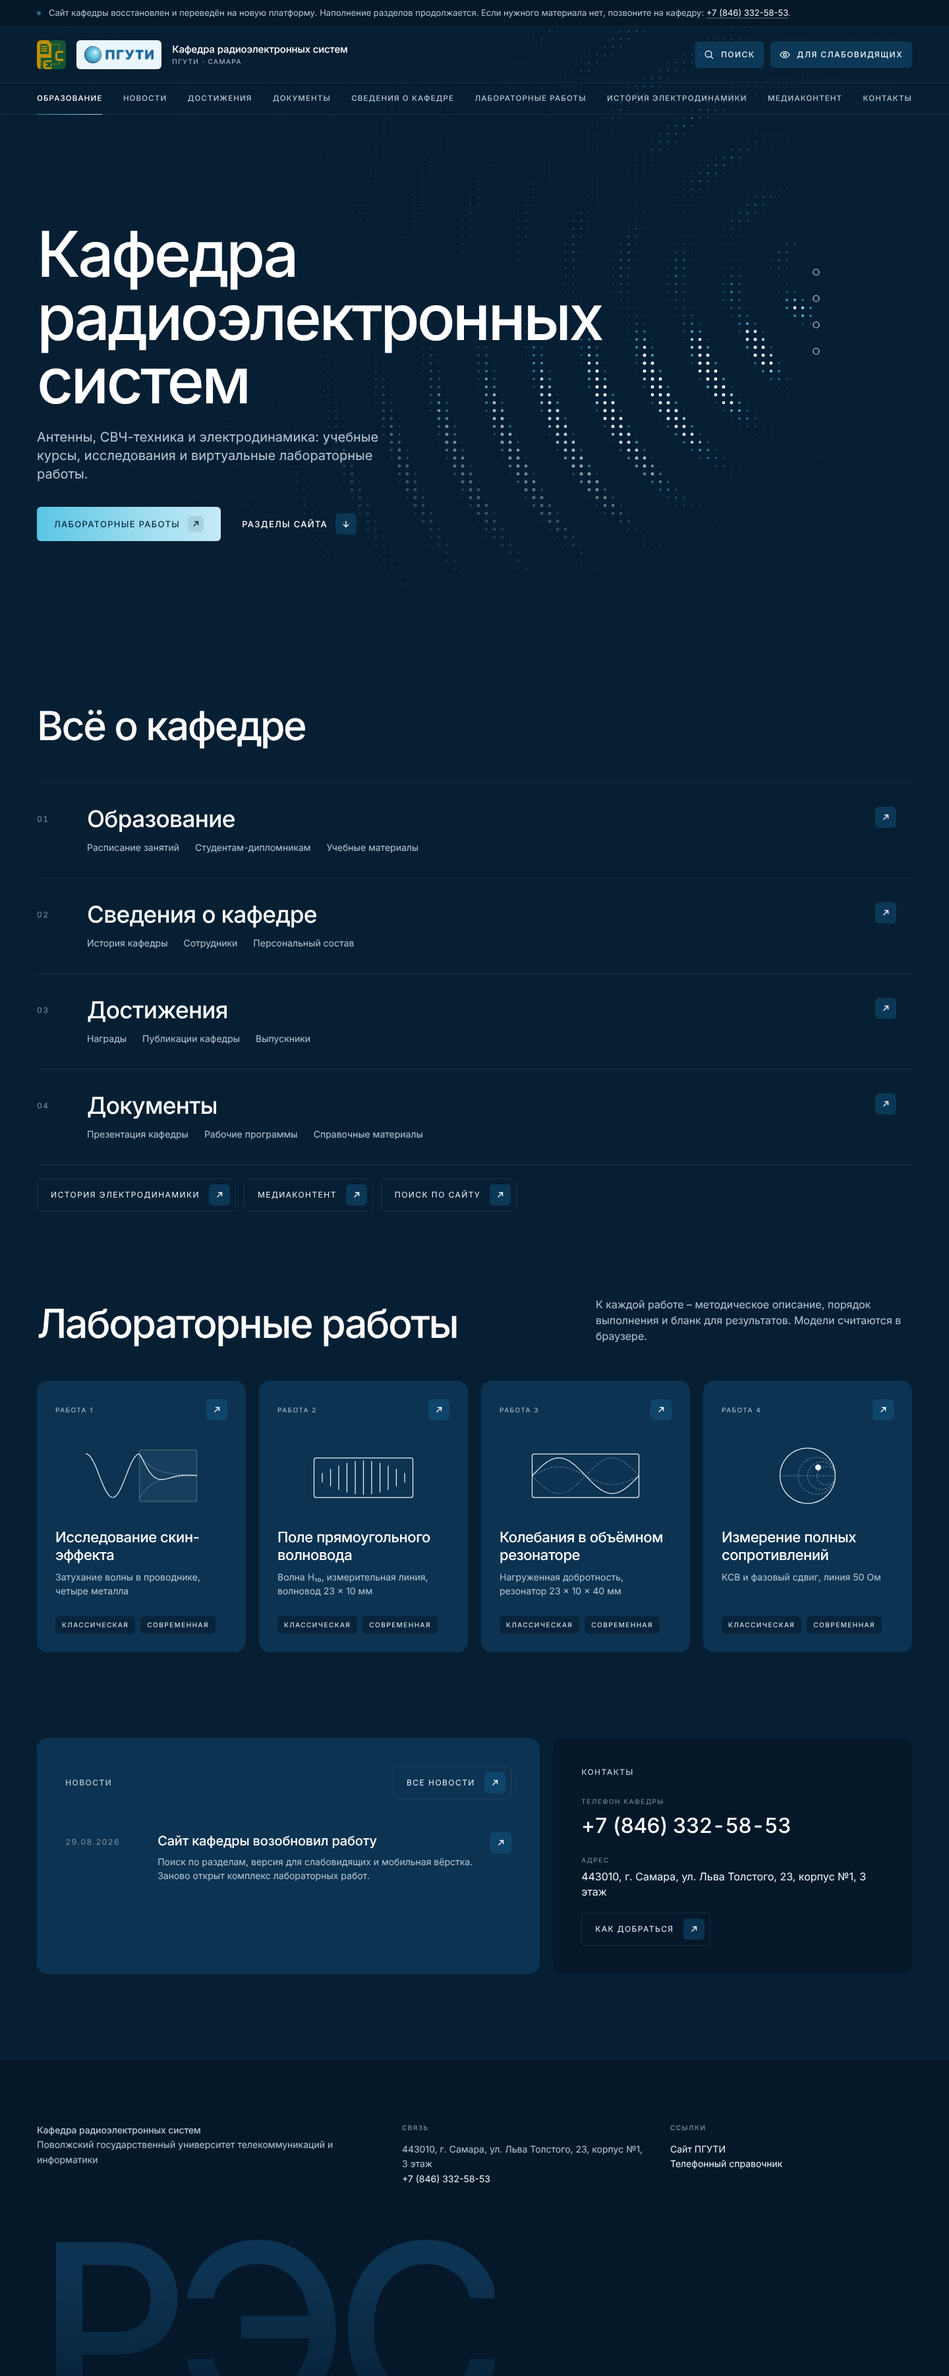
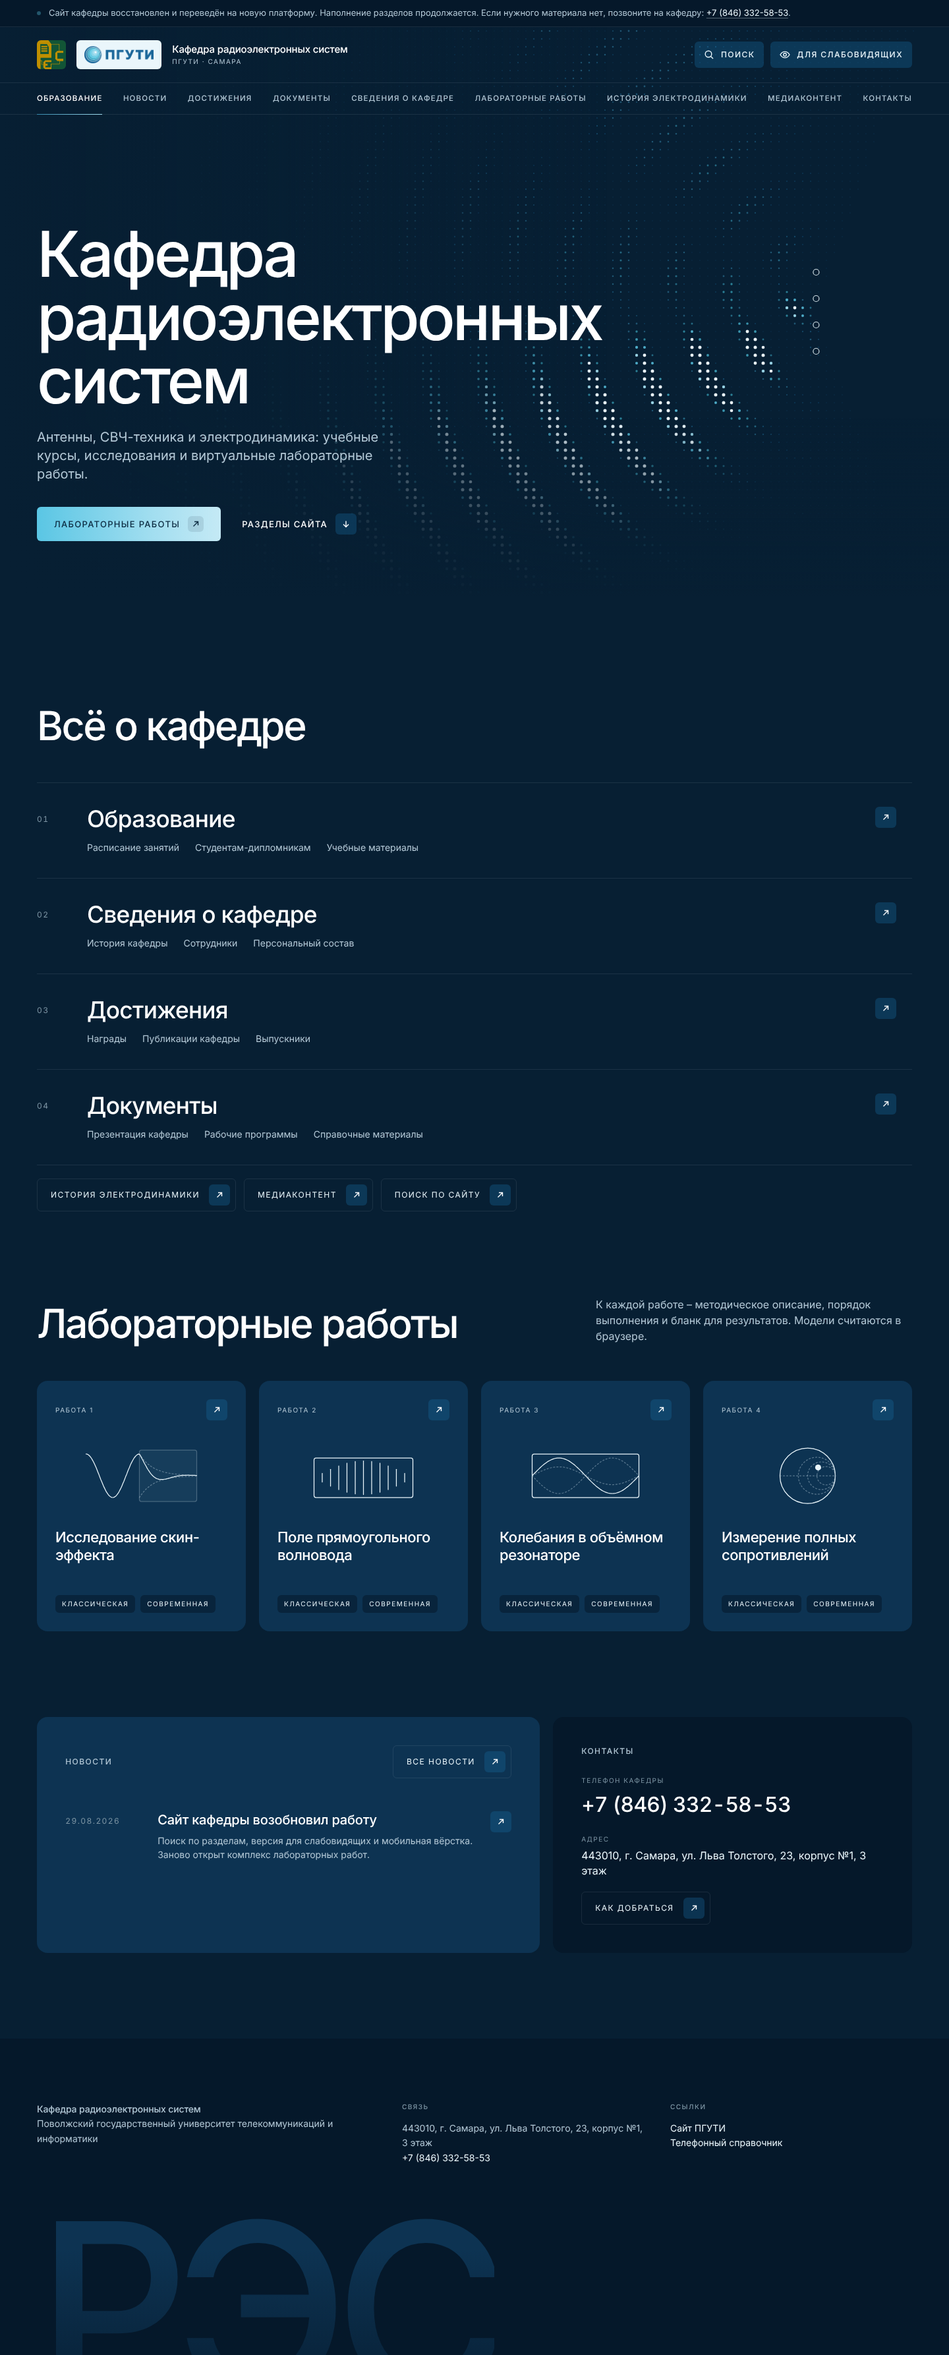
Макет главной: убраны описания под названиями лабораторных
Claude-Session: https://claude.ai/code/session_01Y5a5f6xMeDjfuauD7HAxLL

diff --git a/design/maket-glavnoj.clean.html b/design/maket-glavnoj.clean.html
@@ -187,7 +187,6 @@ p { margin: 0; }
 .lab__glyph .g-fill { fill: rgba(162, 222, 240, .06); stroke: rgba(234, 246, 251, .25); stroke-dasharray: none; }
 .lab__glyph .g-pt { fill: var(--mist); stroke: none; }
 .lab__title { font-size: 22px; line-height: 1.2; letter-spacing: -.02em; color: var(--white); font-weight: 500; }
-.lab__meta { margin-top: 10px; font-size: 14px; line-height: 1.5; color: var(--silver); }
 .lab__foot { margin-top: auto; padding-top: 28px; display: flex; gap: 8px; flex-wrap: wrap; }
 .tag { font-size: 10px; letter-spacing: .15em; text-transform: uppercase; color: var(--mist); padding: 6px 10px; border-radius: var(--r-sm); background: rgba(5, 24, 42, .55); }
 
@@ -407,28 +406,24 @@ p { margin: 0; }
         <span class="lab__top"><span class="lab__code">Работа 1</span><span class="arrow" aria-hidden="true"><svg viewBox="0 0 14 14" fill="none" stroke="currentColor" stroke-width="1.4"><path d="M3.5 10.5 10.5 3.5M5 3.5h5.5V9"/></svg></span></span>
         <span class="lab__glyph"><svg viewBox="0 0 120 64" aria-hidden="true"><rect x="58" y="6" width="58" height="52" rx="2" class="g-fill"/><polyline points="4.0,10.0 4.9,10.1 5.9,10.5 6.8,11.2 7.7,12.0 8.7,13.2 9.6,14.5 10.5,16.1 11.5,17.8 12.4,19.7 13.3,21.7 14.3,23.9 15.2,26.2 16.1,28.5 17.1,30.9 18.0,33.3 18.9,35.7 19.9,38.0 20.8,40.2 21.7,42.4 22.7,44.4 23.6,46.3 24.5,48.1 25.5,49.6 26.4,50.9 27.3,52.0 28.3,52.9 29.2,53.5 30.1,53.9 31.1,54.0 32.0,53.9 32.9,53.4 33.9,52.8 34.8,51.9 35.7,50.7 36.7,49.4 37.6,47.8 38.5,46.1 39.5,44.2 40.4,42.1 41.3,39.9 42.3,37.7 43.2,35.3 44.1,32.9 45.1,30.6 46.0,28.2 46.9,25.9 47.9,23.6 48.8,21.4 49.7,19.4 50.7,17.5 51.6,15.8 52.5,14.3 53.5,13.0 54.4,11.9 55.3,11.1 56.3,10.4 57.2,10.1 58.1,10.2 59.1,11.8 60.0,13.4 60.9,15.2 61.9,17.0 62.8,18.8 63.7,20.5 64.7,22.2 65.6,23.9 66.5,25.5 67.5,26.9 68.4,28.3 69.3,29.6 70.3,30.7 71.2,31.7 72.1,32.6 73.1,33.4 74.0,34.0 74.9,34.6 75.9,35.0 76.8,35.3 77.7,35.6 78.7,35.7 79.6,35.8 80.5,35.8 81.5,35.8 82.4,35.7 83.3,35.5 84.3,35.4 85.2,35.2 86.1,34.9 87.1,34.7 88.0,34.4 88.9,34.2 89.9,33.9 90.8,33.6 91.7,33.4 92.7,33.2 93.6,32.9 94.5,32.7 95.5,32.5 96.4,32.3 97.3,32.2 98.3,32.0 99.2,31.9 100.1,31.8 101.1,31.7 102.0,31.6 102.9,31.6 103.9,31.5 104.8,31.5 105.7,31.5 106.7,31.4 107.6,31.4 108.5,31.5 109.5,31.5 110.4,31.5 111.3,31.5 112.3,31.5 113.2,31.6 114.1,31.6 115.1,31.7 116.0,31.7"/><polyline class="g-dim" points="58.0,10.0 59.5,12.2 60.9,14.1 62.4,15.9 63.8,17.5 65.2,18.9 66.7,20.2 68.2,21.3 69.6,22.4 71.0,23.3 72.5,24.2 74.0,25.0 75.4,25.7 76.8,26.3 78.3,26.8 79.8,27.3 81.2,27.8 82.7,28.2 84.1,28.6 85.5,28.9 87.0,29.2 88.5,29.5 89.9,29.7 91.3,30.0 92.8,30.2 94.2,30.3 95.7,30.5 97.2,30.7 98.6,30.8 100.0,30.9 101.5,31.0 103.0,31.1 104.4,31.2 105.8,31.3 107.3,31.3 108.8,31.4 110.2,31.5 111.7,31.5 113.1,31.6 114.5,31.6 116.0,31.7"/><polyline class="g-dim" points="58.0,54.0 59.5,51.8 60.9,49.9 62.4,48.1 63.8,46.5 65.2,45.1 66.7,43.8 68.2,42.7 69.6,41.6 71.0,40.7 72.5,39.8 74.0,39.0 75.4,38.3 76.8,37.7 78.3,37.2 79.8,36.7 81.2,36.2 82.7,35.8 84.1,35.4 85.5,35.1 87.0,34.8 88.5,34.5 89.9,34.3 91.3,34.0 92.8,33.8 94.2,33.7 95.7,33.5 97.2,33.3 98.6,33.2 100.0,33.1 101.5,33.0 103.0,32.9 104.4,32.8 105.8,32.7 107.3,32.7 108.8,32.6 110.2,32.5 111.7,32.5 113.1,32.4 114.5,32.4 116.0,32.3"/></svg></span>
         <span class="lab__title">Исследование скин-эффекта</span>
-        <span class="lab__meta">Затухание волны в проводнике, четыре металла</span>
         <span class="lab__foot"><span class="tag">Классическая</span><span class="tag">Современная</span></span>
       </a></li>
       <li class="lab"><a href="#">
         <span class="lab__top"><span class="lab__code">Работа 2</span><span class="arrow" aria-hidden="true"><svg viewBox="0 0 14 14" fill="none" stroke="currentColor" stroke-width="1.4"><path d="M3.5 10.5 10.5 3.5M5 3.5h5.5V9"/></svg></span></span>
         <span class="lab__glyph"><svg viewBox="0 0 120 64" aria-hidden="true"><rect x="10" y="14" width="100" height="40" rx="2"/><line x1="18.3" y1="29.6" x2="18.3" y2="38.4" class=""/><line x1="26.7" y1="25.5" x2="26.7" y2="42.5" class=""/><line x1="35.0" y1="22.0" x2="35.0" y2="46.0" class=""/><line x1="43.3" y1="19.3" x2="43.3" y2="48.7" class=""/><line x1="51.7" y1="17.6" x2="51.7" y2="50.4" class=""/><line x1="60.0" y1="17.0" x2="60.0" y2="51.0" class=""/><line x1="68.3" y1="17.6" x2="68.3" y2="50.4" class=""/><line x1="76.7" y1="19.3" x2="76.7" y2="48.7" class=""/><line x1="85.0" y1="22.0" x2="85.0" y2="46.0" class=""/><line x1="93.3" y1="25.5" x2="93.3" y2="42.5" class=""/><line x1="101.7" y1="29.6" x2="101.7" y2="38.4" class=""/><polyline class="g-acc" points="10.0,10.0 60.0,10.0 110.0,10.0" style="display:none"/></svg></span>
         <span class="lab__title">Поле прямоугольного волновода</span>
-        <span class="lab__meta">Волна H₁₀, измерительная линия, волновод 23 × 10 мм</span>
         <span class="lab__foot"><span class="tag">Классическая</span><span class="tag">Современная</span></span>
       </a></li>
       <li class="lab"><a href="#">
         <span class="lab__top"><span class="lab__code">Работа 3</span><span class="arrow" aria-hidden="true"><svg viewBox="0 0 14 14" fill="none" stroke="currentColor" stroke-width="1.4"><path d="M3.5 10.5 10.5 3.5M5 3.5h5.5V9"/></svg></span></span>
         <span class="lab__glyph"><svg viewBox="0 0 120 64" aria-hidden="true"><rect x="6" y="10" width="108" height="44" rx="2"/><polyline points="6.0,32.0 7.3,30.6 8.7,29.2 10.1,27.8 11.4,26.4 12.8,25.1 14.1,23.8 15.4,22.6 16.8,21.4 18.1,20.3 19.5,19.3 20.9,18.3 22.2,17.4 23.6,16.7 24.9,16.0 26.2,15.4 27.6,14.9 28.9,14.5 30.3,14.2 31.6,14.1 33.0,14.0 34.4,14.1 35.7,14.2 37.0,14.5 38.4,14.9 39.8,15.4 41.1,16.0 42.5,16.7 43.8,17.4 45.1,18.3 46.5,19.3 47.9,20.3 49.2,21.4 50.5,22.6 51.9,23.8 53.2,25.1 54.6,26.4 56.0,27.8 57.3,29.2 58.6,30.6 60.0,32.0 61.4,33.4 62.7,34.8 64.0,36.2 65.4,37.6 66.8,38.9 68.1,40.2 69.5,41.4 70.8,42.6 72.2,43.7 73.5,44.7 74.8,45.7 76.2,46.6 77.5,47.3 78.9,48.0 80.2,48.6 81.6,49.1 83.0,49.5 84.3,49.8 85.7,49.9 87.0,50.0 88.3,49.9 89.7,49.8 91.0,49.5 92.4,49.1 93.8,48.6 95.1,48.0 96.5,47.3 97.8,46.6 99.2,45.7 100.5,44.7 101.8,43.7 103.2,42.6 104.5,41.4 105.9,40.2 107.2,38.9 108.6,37.6 110.0,36.2 111.3,34.8 112.7,33.4 114.0,32.0"/><polyline class="g-dim" points="6.0,32.0 7.3,33.4 8.7,34.8 10.1,36.2 11.4,37.6 12.8,38.9 14.1,40.2 15.4,41.4 16.8,42.6 18.1,43.7 19.5,44.7 20.9,45.7 22.2,46.6 23.6,47.3 24.9,48.0 26.2,48.6 27.6,49.1 28.9,49.5 30.3,49.8 31.6,49.9 33.0,50.0 34.4,49.9 35.7,49.8 37.0,49.5 38.4,49.1 39.8,48.6 41.1,48.0 42.5,47.3 43.8,46.6 45.1,45.7 46.5,44.7 47.9,43.7 49.2,42.6 50.5,41.4 51.9,40.2 53.2,38.9 54.6,37.6 56.0,36.2 57.3,34.8 58.6,33.4 60.0,32.0 61.4,30.6 62.7,29.2 64.0,27.8 65.4,26.4 66.8,25.1 68.1,23.8 69.5,22.6 70.8,21.4 72.2,20.3 73.5,19.3 74.8,18.3 76.2,17.4 77.5,16.7 78.9,16.0 80.2,15.4 81.6,14.9 83.0,14.5 84.3,14.2 85.7,14.1 87.0,14.0 88.3,14.1 89.7,14.2 91.0,14.5 92.4,14.9 93.8,15.4 95.1,16.0 96.5,16.7 97.8,17.4 99.2,18.3 100.5,19.3 101.8,20.3 103.2,21.4 104.5,22.6 105.9,23.8 107.2,25.1 108.6,26.4 110.0,27.8 111.3,29.2 112.7,30.6 114.0,32.0"/><polyline class="g-dim" points="6.0,32.0 7.3,31.3 8.7,30.6 10.1,29.9 11.4,29.2 12.8,28.6 14.1,27.9 15.4,27.3 16.8,26.7 18.1,26.2 19.5,25.6 20.9,25.2 22.2,24.7 23.6,24.3 24.9,24.0 26.2,23.7 27.6,23.4 28.9,23.2 30.3,23.1 31.6,23.0 33.0,23.0 34.4,23.0 35.7,23.1 37.0,23.2 38.4,23.4 39.8,23.7 41.1,24.0 42.5,24.3 43.8,24.7 45.1,25.2 46.5,25.6 47.9,26.2 49.2,26.7 50.5,27.3 51.9,27.9 53.2,28.6 54.6,29.2 56.0,29.9 57.3,30.6 58.6,31.3 60.0,32.0 61.4,32.7 62.7,33.4 64.0,34.1 65.4,34.8 66.8,35.4 68.1,36.1 69.5,36.7 70.8,37.3 72.2,37.8 73.5,38.4 74.8,38.8 76.2,39.3 77.5,39.7 78.9,40.0 80.2,40.3 81.6,40.6 83.0,40.8 84.3,40.9 85.7,41.0 87.0,41.0 88.3,41.0 89.7,40.9 91.0,40.8 92.4,40.6 93.8,40.3 95.1,40.0 96.5,39.7 97.8,39.3 99.2,38.8 100.5,38.4 101.8,37.8 103.2,37.3 104.5,36.7 105.9,36.1 107.2,35.4 108.6,34.8 110.0,34.1 111.3,33.4 112.7,32.7 114.0,32.0"/></svg></span>
         <span class="lab__title">Колебания в объёмном резонаторе</span>
-        <span class="lab__meta">Нагруженная добротность, резонатор 23 × 10 × 40 мм</span>
         <span class="lab__foot"><span class="tag">Классическая</span><span class="tag">Современная</span></span>
       </a></li>
       <li class="lab"><a href="#">
         <span class="lab__top"><span class="lab__code">Работа 4</span><span class="arrow" aria-hidden="true"><svg viewBox="0 0 14 14" fill="none" stroke="currentColor" stroke-width="1.4"><path d="M3.5 10.5 10.5 3.5M5 3.5h5.5V9"/></svg></span></span>
         <span class="lab__glyph"><svg viewBox="0 0 120 64" aria-hidden="true"><circle cx="60" cy="32" r="28"/><line x1="32" y1="32" x2="88" y2="32" class="g-dim"/><circle class="g-dim" cx="69.3" cy="32" r="18.7"/><circle class="g-dim" cx="74.0" cy="32" r="14.0"/><circle class="g-dim" cx="78.7" cy="32" r="9.3"/><path class="g-dim" d="M88 32 A28.0 28.0 0 0 0 60.0 4.0"/><path class="g-dim" d="M88 32 A28.0 28.0 0 0 1 60.0 60.0"/><circle cx="70.6" cy="23.6" r="3" class="g-pt"/></svg></span>
         <span class="lab__title">Измерение полных сопротивлений</span>
-        <span class="lab__meta">КСВ и фазовый сдвиг, линия 50 Ом</span>
         <span class="lab__foot"><span class="tag">Классическая</span><span class="tag">Современная</span></span>
       </a></li>
     </ul>

diff --git a/design/maket-glavnoj.html b/design/maket-glavnoj.html
@@ -187,7 +187,6 @@ p { margin: 0; }
 .lab__glyph .g-fill { fill: rgba(162, 222, 240, .06); stroke: rgba(234, 246, 251, .25); stroke-dasharray: none; }
 .lab__glyph .g-pt { fill: var(--mist); stroke: none; }
 .lab__title { font-size: 22px; line-height: 1.2; letter-spacing: -.02em; color: var(--white); font-weight: 500; }
-.lab__meta { margin-top: 10px; font-size: 14px; line-height: 1.5; color: var(--silver); }
 .lab__foot { margin-top: auto; padding-top: 28px; display: flex; gap: 8px; flex-wrap: wrap; }
 .tag { font-size: 10px; letter-spacing: .15em; text-transform: uppercase; color: var(--mist); padding: 6px 10px; border-radius: var(--r-sm); background: rgba(5, 24, 42, .55); }
 
@@ -407,28 +406,24 @@ p { margin: 0; }
         <span class="lab__top"><span class="lab__code">Работа 1</span><span class="arrow" aria-hidden="true"><svg viewBox="0 0 14 14" fill="none" stroke="currentColor" stroke-width="1.4"><path d="M3.5 10.5 10.5 3.5M5 3.5h5.5V9"/></svg></span></span>
         <span class="lab__glyph"><svg viewBox="0 0 120 64" aria-hidden="true"><rect x="58" y="6" width="58" height="52" rx="2" class="g-fill"/><polyline points="4.0,10.0 4.9,10.1 5.9,10.5 6.8,11.2 7.7,12.0 8.7,13.2 9.6,14.5 10.5,16.1 11.5,17.8 12.4,19.7 13.3,21.7 14.3,23.9 15.2,26.2 16.1,28.5 17.1,30.9 18.0,33.3 18.9,35.7 19.9,38.0 20.8,40.2 21.7,42.4 22.7,44.4 23.6,46.3 24.5,48.1 25.5,49.6 26.4,50.9 27.3,52.0 28.3,52.9 29.2,53.5 30.1,53.9 31.1,54.0 32.0,53.9 32.9,53.4 33.9,52.8 34.8,51.9 35.7,50.7 36.7,49.4 37.6,47.8 38.5,46.1 39.5,44.2 40.4,42.1 41.3,39.9 42.3,37.7 43.2,35.3 44.1,32.9 45.1,30.6 46.0,28.2 46.9,25.9 47.9,23.6 48.8,21.4 49.7,19.4 50.7,17.5 51.6,15.8 52.5,14.3 53.5,13.0 54.4,11.9 55.3,11.1 56.3,10.4 57.2,10.1 58.1,10.2 59.1,11.8 60.0,13.4 60.9,15.2 61.9,17.0 62.8,18.8 63.7,20.5 64.7,22.2 65.6,23.9 66.5,25.5 67.5,26.9 68.4,28.3 69.3,29.6 70.3,30.7 71.2,31.7 72.1,32.6 73.1,33.4 74.0,34.0 74.9,34.6 75.9,35.0 76.8,35.3 77.7,35.6 78.7,35.7 79.6,35.8 80.5,35.8 81.5,35.8 82.4,35.7 83.3,35.5 84.3,35.4 85.2,35.2 86.1,34.9 87.1,34.7 88.0,34.4 88.9,34.2 89.9,33.9 90.8,33.6 91.7,33.4 92.7,33.2 93.6,32.9 94.5,32.7 95.5,32.5 96.4,32.3 97.3,32.2 98.3,32.0 99.2,31.9 100.1,31.8 101.1,31.7 102.0,31.6 102.9,31.6 103.9,31.5 104.8,31.5 105.7,31.5 106.7,31.4 107.6,31.4 108.5,31.5 109.5,31.5 110.4,31.5 111.3,31.5 112.3,31.5 113.2,31.6 114.1,31.6 115.1,31.7 116.0,31.7"/><polyline class="g-dim" points="58.0,10.0 59.5,12.2 60.9,14.1 62.4,15.9 63.8,17.5 65.2,18.9 66.7,20.2 68.2,21.3 69.6,22.4 71.0,23.3 72.5,24.2 74.0,25.0 75.4,25.7 76.8,26.3 78.3,26.8 79.8,27.3 81.2,27.8 82.7,28.2 84.1,28.6 85.5,28.9 87.0,29.2 88.5,29.5 89.9,29.7 91.3,30.0 92.8,30.2 94.2,30.3 95.7,30.5 97.2,30.7 98.6,30.8 100.0,30.9 101.5,31.0 103.0,31.1 104.4,31.2 105.8,31.3 107.3,31.3 108.8,31.4 110.2,31.5 111.7,31.5 113.1,31.6 114.5,31.6 116.0,31.7"/><polyline class="g-dim" points="58.0,54.0 59.5,51.8 60.9,49.9 62.4,48.1 63.8,46.5 65.2,45.1 66.7,43.8 68.2,42.7 69.6,41.6 71.0,40.7 72.5,39.8 74.0,39.0 75.4,38.3 76.8,37.7 78.3,37.2 79.8,36.7 81.2,36.2 82.7,35.8 84.1,35.4 85.5,35.1 87.0,34.8 88.5,34.5 89.9,34.3 91.3,34.0 92.8,33.8 94.2,33.7 95.7,33.5 97.2,33.3 98.6,33.2 100.0,33.1 101.5,33.0 103.0,32.9 104.4,32.8 105.8,32.7 107.3,32.7 108.8,32.6 110.2,32.5 111.7,32.5 113.1,32.4 114.5,32.4 116.0,32.3"/></svg></span>
         <span class="lab__title">Исследование скин-эффекта</span>
-        <span class="lab__meta">Затухание волны в проводнике, четыре металла</span>
         <span class="lab__foot"><span class="tag">Классическая</span><span class="tag">Современная</span></span>
       </a></li>
       <li class="lab"><a href="#">
         <span class="lab__top"><span class="lab__code">Работа 2</span><span class="arrow" aria-hidden="true"><svg viewBox="0 0 14 14" fill="none" stroke="currentColor" stroke-width="1.4"><path d="M3.5 10.5 10.5 3.5M5 3.5h5.5V9"/></svg></span></span>
         <span class="lab__glyph"><svg viewBox="0 0 120 64" aria-hidden="true"><rect x="10" y="14" width="100" height="40" rx="2"/><line x1="18.3" y1="29.6" x2="18.3" y2="38.4" class=""/><line x1="26.7" y1="25.5" x2="26.7" y2="42.5" class=""/><line x1="35.0" y1="22.0" x2="35.0" y2="46.0" class=""/><line x1="43.3" y1="19.3" x2="43.3" y2="48.7" class=""/><line x1="51.7" y1="17.6" x2="51.7" y2="50.4" class=""/><line x1="60.0" y1="17.0" x2="60.0" y2="51.0" class=""/><line x1="68.3" y1="17.6" x2="68.3" y2="50.4" class=""/><line x1="76.7" y1="19.3" x2="76.7" y2="48.7" class=""/><line x1="85.0" y1="22.0" x2="85.0" y2="46.0" class=""/><line x1="93.3" y1="25.5" x2="93.3" y2="42.5" class=""/><line x1="101.7" y1="29.6" x2="101.7" y2="38.4" class=""/><polyline class="g-acc" points="10.0,10.0 60.0,10.0 110.0,10.0" style="display:none"/></svg></span>
         <span class="lab__title">Поле прямоугольного волновода</span>
-        <span class="lab__meta">Волна H₁₀, измерительная линия, волновод 23 × 10 мм</span>
         <span class="lab__foot"><span class="tag">Классическая</span><span class="tag">Современная</span></span>
       </a></li>
       <li class="lab"><a href="#">
         <span class="lab__top"><span class="lab__code">Работа 3</span><span class="arrow" aria-hidden="true"><svg viewBox="0 0 14 14" fill="none" stroke="currentColor" stroke-width="1.4"><path d="M3.5 10.5 10.5 3.5M5 3.5h5.5V9"/></svg></span></span>
         <span class="lab__glyph"><svg viewBox="0 0 120 64" aria-hidden="true"><rect x="6" y="10" width="108" height="44" rx="2"/><polyline points="6.0,32.0 7.3,30.6 8.7,29.2 10.1,27.8 11.4,26.4 12.8,25.1 14.1,23.8 15.4,22.6 16.8,21.4 18.1,20.3 19.5,19.3 20.9,18.3 22.2,17.4 23.6,16.7 24.9,16.0 26.2,15.4 27.6,14.9 28.9,14.5 30.3,14.2 31.6,14.1 33.0,14.0 34.4,14.1 35.7,14.2 37.0,14.5 38.4,14.9 39.8,15.4 41.1,16.0 42.5,16.7 43.8,17.4 45.1,18.3 46.5,19.3 47.9,20.3 49.2,21.4 50.5,22.6 51.9,23.8 53.2,25.1 54.6,26.4 56.0,27.8 57.3,29.2 58.6,30.6 60.0,32.0 61.4,33.4 62.7,34.8 64.0,36.2 65.4,37.6 66.8,38.9 68.1,40.2 69.5,41.4 70.8,42.6 72.2,43.7 73.5,44.7 74.8,45.7 76.2,46.6 77.5,47.3 78.9,48.0 80.2,48.6 81.6,49.1 83.0,49.5 84.3,49.8 85.7,49.9 87.0,50.0 88.3,49.9 89.7,49.8 91.0,49.5 92.4,49.1 93.8,48.6 95.1,48.0 96.5,47.3 97.8,46.6 99.2,45.7 100.5,44.7 101.8,43.7 103.2,42.6 104.5,41.4 105.9,40.2 107.2,38.9 108.6,37.6 110.0,36.2 111.3,34.8 112.7,33.4 114.0,32.0"/><polyline class="g-dim" points="6.0,32.0 7.3,33.4 8.7,34.8 10.1,36.2 11.4,37.6 12.8,38.9 14.1,40.2 15.4,41.4 16.8,42.6 18.1,43.7 19.5,44.7 20.9,45.7 22.2,46.6 23.6,47.3 24.9,48.0 26.2,48.6 27.6,49.1 28.9,49.5 30.3,49.8 31.6,49.9 33.0,50.0 34.4,49.9 35.7,49.8 37.0,49.5 38.4,49.1 39.8,48.6 41.1,48.0 42.5,47.3 43.8,46.6 45.1,45.7 46.5,44.7 47.9,43.7 49.2,42.6 50.5,41.4 51.9,40.2 53.2,38.9 54.6,37.6 56.0,36.2 57.3,34.8 58.6,33.4 60.0,32.0 61.4,30.6 62.7,29.2 64.0,27.8 65.4,26.4 66.8,25.1 68.1,23.8 69.5,22.6 70.8,21.4 72.2,20.3 73.5,19.3 74.8,18.3 76.2,17.4 77.5,16.7 78.9,16.0 80.2,15.4 81.6,14.9 83.0,14.5 84.3,14.2 85.7,14.1 87.0,14.0 88.3,14.1 89.7,14.2 91.0,14.5 92.4,14.9 93.8,15.4 95.1,16.0 96.5,16.7 97.8,17.4 99.2,18.3 100.5,19.3 101.8,20.3 103.2,21.4 104.5,22.6 105.9,23.8 107.2,25.1 108.6,26.4 110.0,27.8 111.3,29.2 112.7,30.6 114.0,32.0"/><polyline class="g-dim" points="6.0,32.0 7.3,31.3 8.7,30.6 10.1,29.9 11.4,29.2 12.8,28.6 14.1,27.9 15.4,27.3 16.8,26.7 18.1,26.2 19.5,25.6 20.9,25.2 22.2,24.7 23.6,24.3 24.9,24.0 26.2,23.7 27.6,23.4 28.9,23.2 30.3,23.1 31.6,23.0 33.0,23.0 34.4,23.0 35.7,23.1 37.0,23.2 38.4,23.4 39.8,23.7 41.1,24.0 42.5,24.3 43.8,24.7 45.1,25.2 46.5,25.6 47.9,26.2 49.2,26.7 50.5,27.3 51.9,27.9 53.2,28.6 54.6,29.2 56.0,29.9 57.3,30.6 58.6,31.3 60.0,32.0 61.4,32.7 62.7,33.4 64.0,34.1 65.4,34.8 66.8,35.4 68.1,36.1 69.5,36.7 70.8,37.3 72.2,37.8 73.5,38.4 74.8,38.8 76.2,39.3 77.5,39.7 78.9,40.0 80.2,40.3 81.6,40.6 83.0,40.8 84.3,40.9 85.7,41.0 87.0,41.0 88.3,41.0 89.7,40.9 91.0,40.8 92.4,40.6 93.8,40.3 95.1,40.0 96.5,39.7 97.8,39.3 99.2,38.8 100.5,38.4 101.8,37.8 103.2,37.3 104.5,36.7 105.9,36.1 107.2,35.4 108.6,34.8 110.0,34.1 111.3,33.4 112.7,32.7 114.0,32.0"/></svg></span>
         <span class="lab__title">Колебания в объёмном резонаторе</span>
-        <span class="lab__meta">Нагруженная добротность, резонатор 23 × 10 × 40 мм</span>
         <span class="lab__foot"><span class="tag">Классическая</span><span class="tag">Современная</span></span>
       </a></li>
       <li class="lab"><a href="#">
         <span class="lab__top"><span class="lab__code">Работа 4</span><span class="arrow" aria-hidden="true"><svg viewBox="0 0 14 14" fill="none" stroke="currentColor" stroke-width="1.4"><path d="M3.5 10.5 10.5 3.5M5 3.5h5.5V9"/></svg></span></span>
         <span class="lab__glyph"><svg viewBox="0 0 120 64" aria-hidden="true"><circle cx="60" cy="32" r="28"/><line x1="32" y1="32" x2="88" y2="32" class="g-dim"/><circle class="g-dim" cx="69.3" cy="32" r="18.7"/><circle class="g-dim" cx="74.0" cy="32" r="14.0"/><circle class="g-dim" cx="78.7" cy="32" r="9.3"/><path class="g-dim" d="M88 32 A28.0 28.0 0 0 0 60.0 4.0"/><path class="g-dim" d="M88 32 A28.0 28.0 0 0 1 60.0 60.0"/><circle cx="70.6" cy="23.6" r="3" class="g-pt"/></svg></span>
         <span class="lab__title">Измерение полных сопротивлений</span>
-        <span class="lab__meta">КСВ и фазовый сдвиг, линия 50 Ом</span>
         <span class="lab__foot"><span class="tag">Классическая</span><span class="tag">Современная</span></span>
       </a></li>
     </ul>
